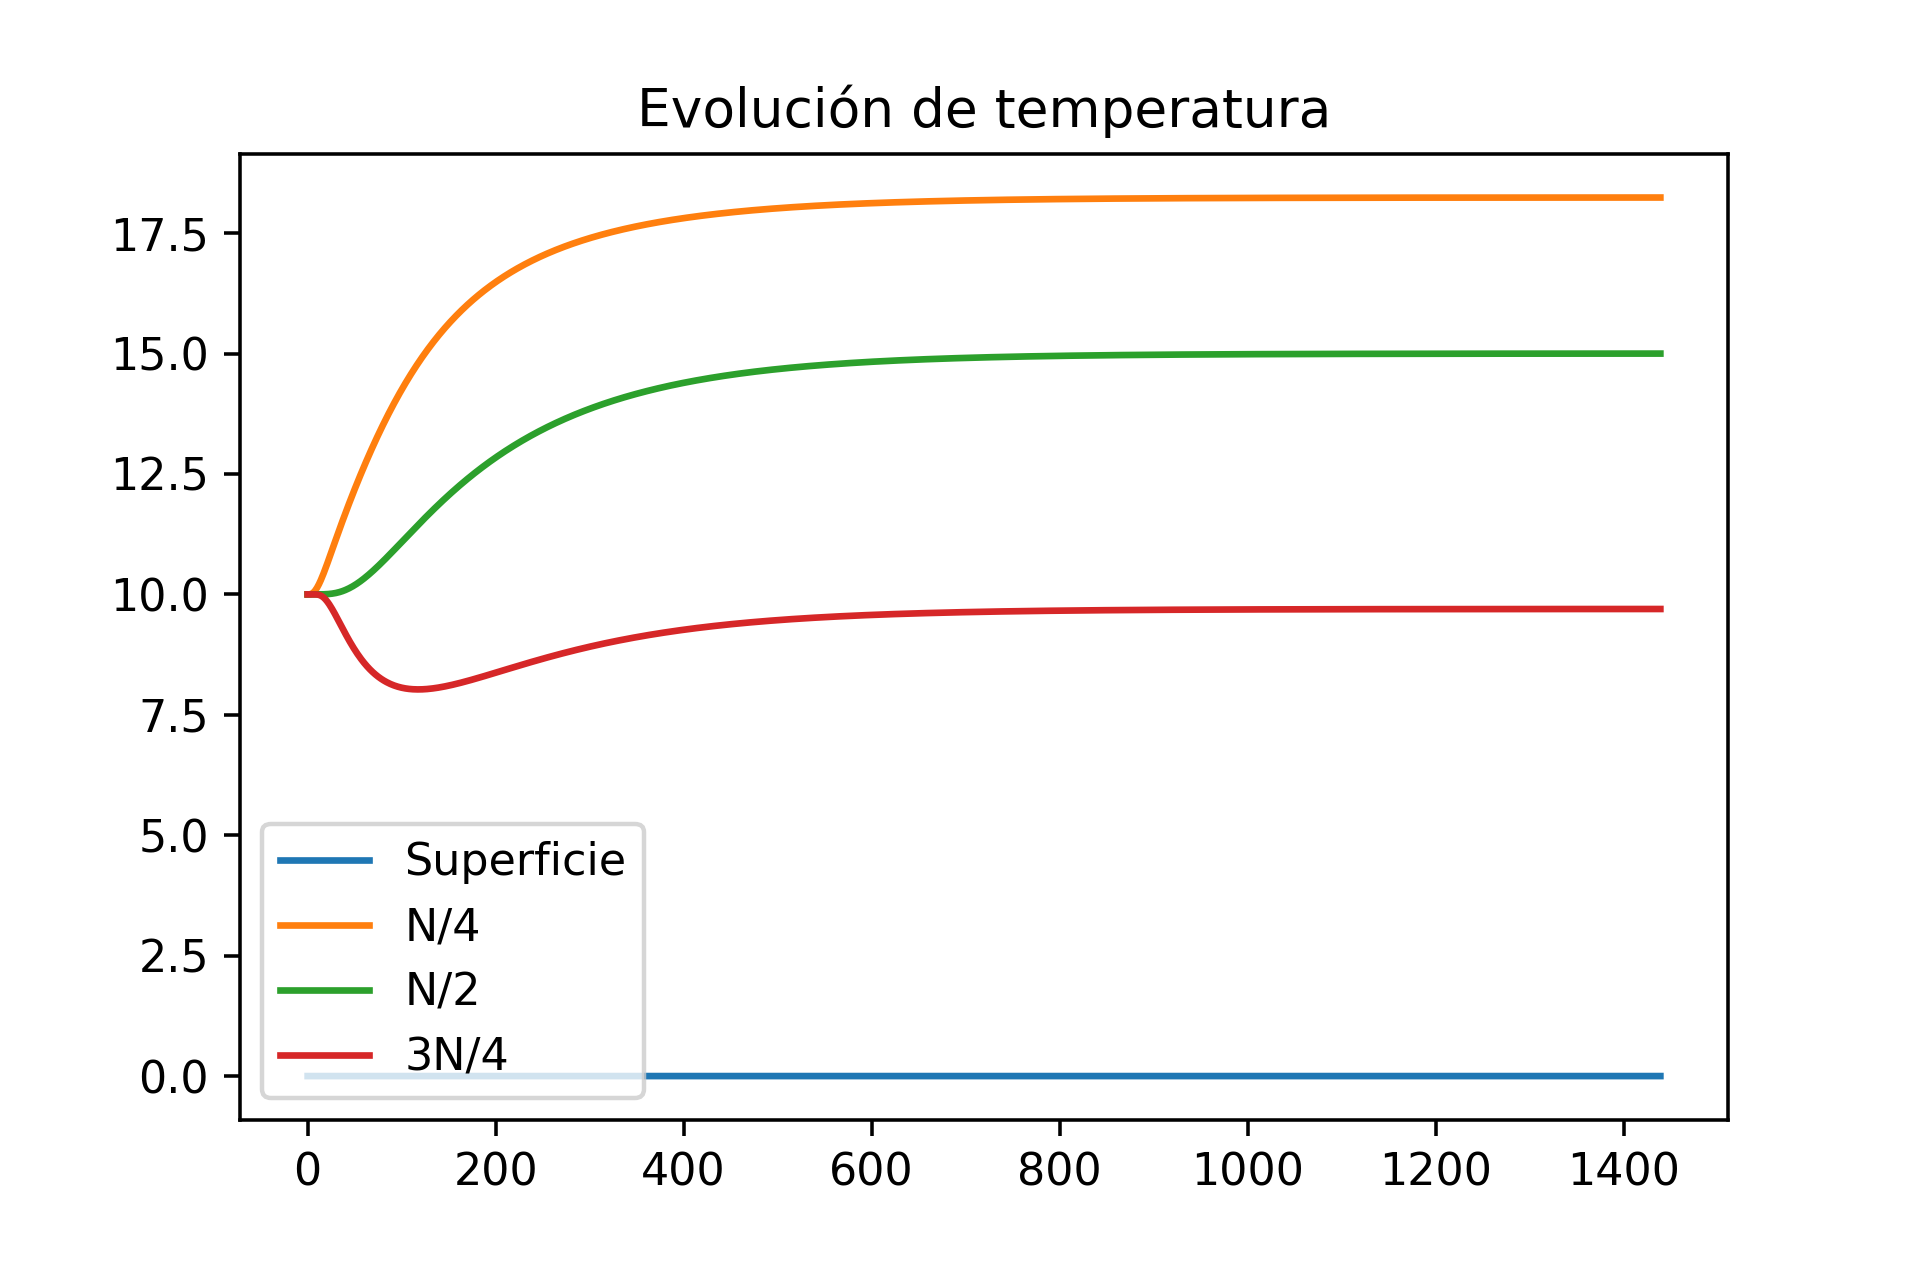
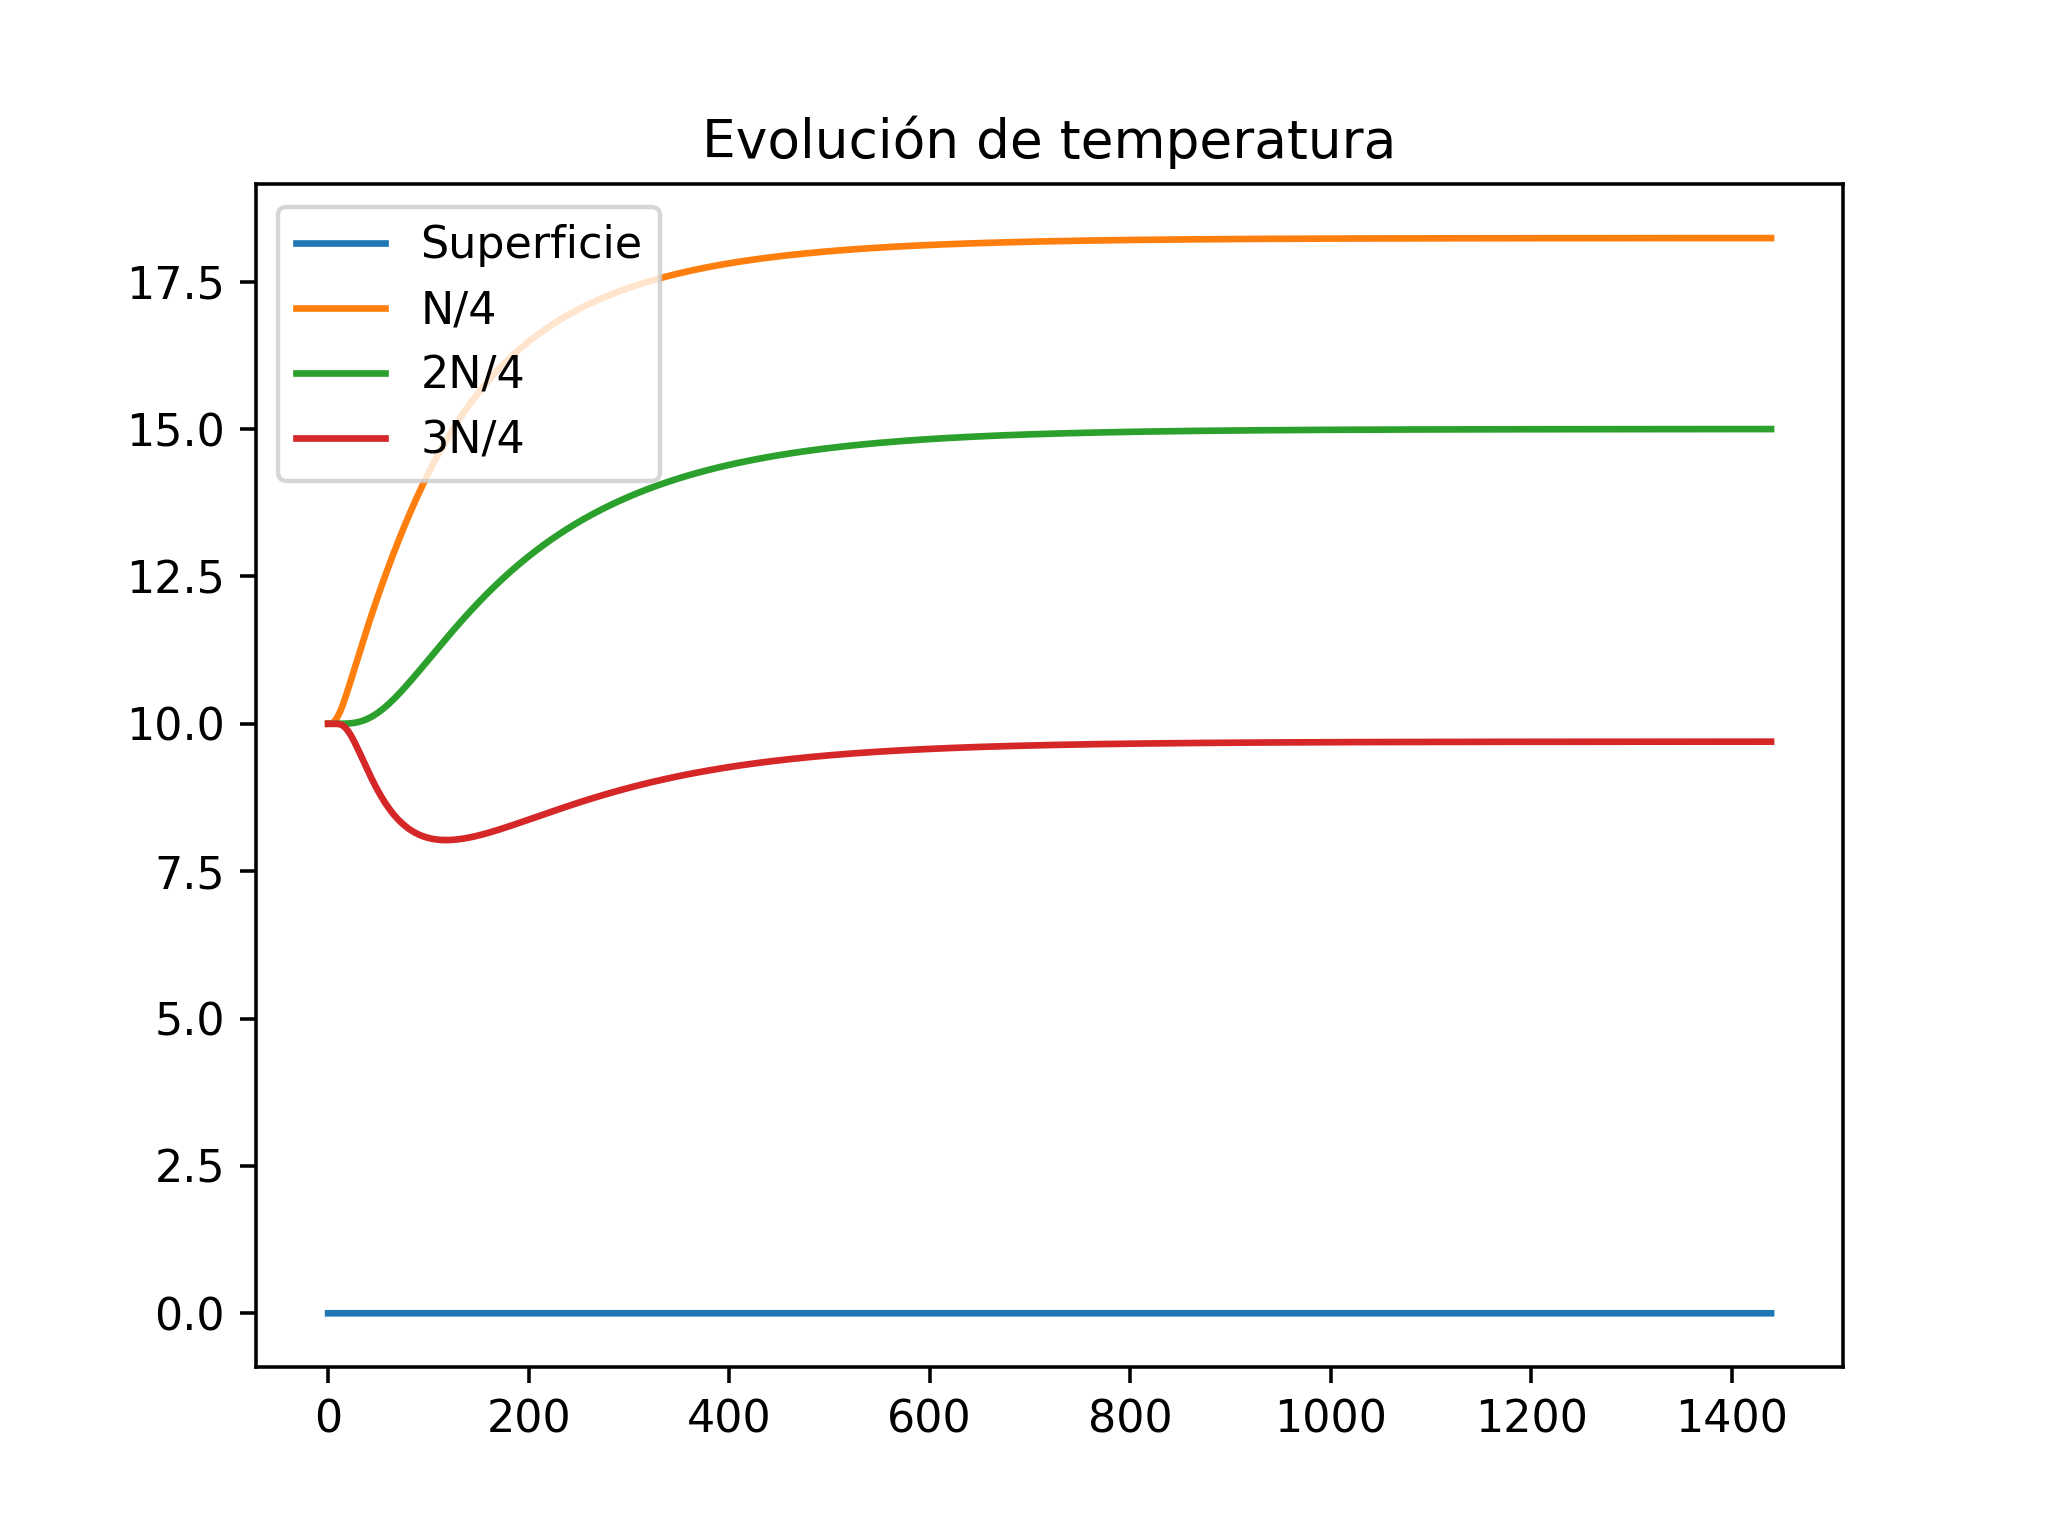
caso3

diff --git a/Entrega_5/caso_3.py b/Entrega_5/caso_3.py
@@ -156,7 +156,7 @@ for k in range(int32(Days/dt)):
 figure(2)
 plot(range(int32(Days / dt)), u_0, label='Superficie')
 plot(range(int32(Days / dt)), u_N4, label='N/4')
-plot(range(int32(Days / dt)), u_2N4, label='N/2')
+plot(range(int32(Days / dt)), u_2N4, label='2N/4')
 plot(range(int32(Days / dt)), u_3N4, label='3N/4')
 title("Evolución de temperatura")
 legend()

diff --git a/Entrega_5/GIFY.py b/Entrega_5/GIFY.py
@@ -9,8 +9,8 @@ def natural_keys(text):
     return[atoi(c) for c in re.split(r'(\d+)', text)]
 
 #Frame
-fp_in = "Caso2/frame_*.png"
-fp_out = "caso_2.gif"
+fp_in = "Caso3/frame_*.png"
+fp_out = "caso_3.gif"
 
 listaImagenes = sorted(glob.glob(fp_in))
 print("sorted(glob.glob(fp_in)): ", listaImagenes)
